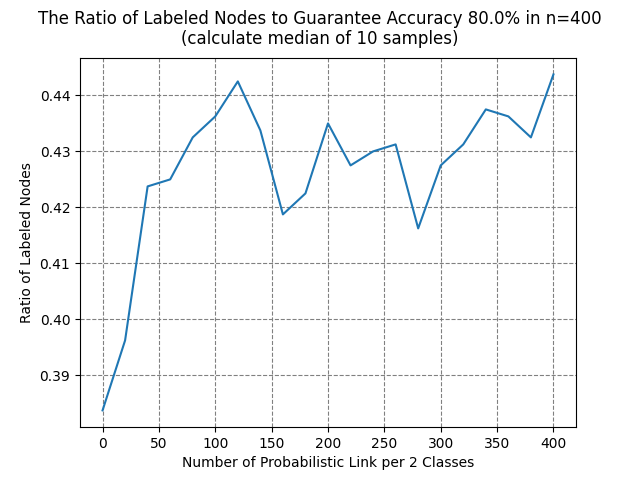
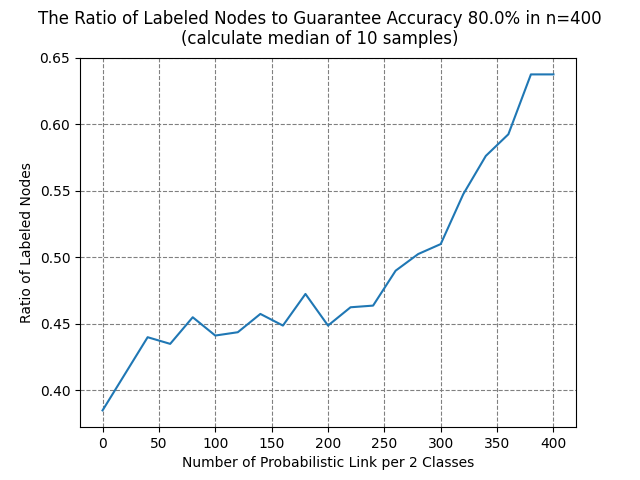
labeling optimization and link integration

diff --git a/scalefree_graph/task3_2_a.py b/scalefree_graph/task3_2_a.py
@@ -98,7 +98,7 @@ def main():
   fig.suptitle(f'The Ratio of Labeled Nodes to Guarantee Accuracy {threshold*100}% in n={n}\n(calculate mean of {roop} samples)')
   ax = fig.add_subplot(111)
   ax.plot(guarantee_ratio_list.keys(), [sum(v)/len(v) for v in guarantee_ratio_list.values()])
-  ax.set_xlabel('Number of Probabilistic Link per 2 Classes')
+  ax.set_xlabel('Number of Node used in Probabilistic Link per 2 Classes')
   ax.set_ylabel('Ratio of Labeled Nodes')
   ax.grid(axis='x', color='gray', linestyle='--')
   ax.grid(axis='y', color='gray', linestyle='--')
@@ -108,7 +108,7 @@ def main():
   fig1.suptitle(f'The Ratio of Labeled Nodes to Guarantee Accuracy {threshold*100}% in n={n}\n(calculate median of {roop} samples)')
   ax1 = fig1.add_subplot(111)
   ax1.plot(guarantee_ratio_list.keys(), np.median([v for v in guarantee_ratio_list.values()], axis=1))
-  ax1.set_xlabel('Number of Probabilistic Link per 2 Classes')
+  ax1.set_xlabel('Number of Node used in Probabilistic Link per 2 Classes')
   ax1.set_ylabel('Ratio of Labeled Nodes')
   ax1.grid(axis='x', color='gray', linestyle='--')
   ax1.grid(axis='y', color='gray', linestyle='--')
@@ -118,7 +118,7 @@ def main():
   fig2.suptitle(f'The Number of Labeled Nodes to Guarantee Accuracy {threshold*100}% in n={n}\n(calculate mean of {roop} samples)')
   ax2 = fig2.add_subplot(111)
   ax2.plot(guarantee_number_list.keys(), [sum(v)/len(v) for v in guarantee_number_list.values()])
-  ax2.set_xlabel('Number of Probabilistic Link per 2 Classes')
+  ax2.set_xlabel('Number of Node used in Probabilistic Link per 2 Classes')
   ax2.set_ylabel('Number of labeled nodes')
   ax2.grid(axis='x', color='gray', linestyle='--')
   ax2.grid(axis='y', color='gray', linestyle='--')
@@ -128,7 +128,7 @@ def main():
   fig3.suptitle(f'The Number of Labeled Nodes to Guarantee Accuracy {threshold*100}% in n={n}\n(calculate median of {roop} samples)')
   ax3 = fig3.add_subplot(111)
   ax3.plot(guarantee_number_list.keys(), np.median([v for v in guarantee_number_list.values()], axis=1))
-  ax3.set_xlabel('Number of Probabilistic Link per 2 Classes')
+  ax3.set_xlabel('Number of Node used in Probabilistic Link per 2 Classes')
   ax3.set_ylabel('Number of labeled nodes')
   ax3.grid(axis='x', color='gray', linestyle='--')
   ax3.grid(axis='y', color='gray', linestyle='--')

diff --git a/scalefree_graph/task2_a.py b/scalefree_graph/task2_a.py
@@ -31,11 +31,11 @@ class Net(torch.nn.Module):
     return x, y
 
 def main():
-  n = 2500
+  n = 400
   m = 2
   graph_num = 4
   link_level = n // 10
-  roop = 4
+  roop = 20
   acc_mean = {}
   for i in range(n):
     acc_mean[i] = []
@@ -57,7 +57,7 @@ def main():
 
       samples = []
       for i in range(cnt):
-        for j in c[i]:
+        for j in c[(i+link_level)%n]:
           samples.append(j)
 
       # for i in range(cnt):
@@ -84,6 +84,7 @@ def main():
     print(f'Duration: {end - start} sec')
     duration.append(end - start)
 
+    '''
     fig = plt.figure()
     fig.suptitle(f'Accuracy and Number of Labeled Nodes(n={n}) per Class\n({link_level/n*100}% nodes is used in links, claculated mean of {r} samples)')
     ax = fig.add_subplot(111)
@@ -93,7 +94,7 @@ def main():
     ax.grid(axis='x', color='gray', linestyle='--')
     ax.grid(axis='y', color='gray', linestyle='--')
     fig.savefig(f'./scalefree_graph/task2_figures/task2_mean_n{n}_10perLink_dg_r{r}.png')
-
+    '''
     print(f'roop {r+1}/{roop} done')
 
   fig = plt.figure()
@@ -104,7 +105,7 @@ def main():
   ax.set_ylabel('Accuracy')
   ax.grid(axis='x', color='gray', linestyle='--')
   ax.grid(axis='y', color='gray', linestyle='--')
-  fig.savefig(f'./scalefree_graph/task2_figures/task2_mean_n{n}_10perLink_dg.png')
+  fig.savefig(f'./scalefree_graph/task2_figures/task2_mean_n{n}_10perLink_dg_opt.png')
 
   print(f'Average Duration: {sum(duration)/len(duration)}')
 

diff --git a/scalefree_graph/task2_b.py b/scalefree_graph/task2_b.py
@@ -1,3 +1,4 @@
+import random
 import time
 from torch_geometric.nn import GCNConv
 from torch_geometric.utils.convert import from_networkx
@@ -35,14 +36,14 @@ def main():
   m = 2
   graph_num = 4
   link_level = n // 10
-  roop = 10
+  roop = 40
   acc_mean = {}
   for i in range(n):
     acc_mean[i] = []
   duration = []
   for r in range(roop):
     start = time.time()
-    a,_,c = sample.generate_sample_cc(n, m, graph_num, link_level)
+    a,_,c = sample.generate_sample(n, m, graph_num, link_level)
     dataA = from_networkx(a)
 
     device = torch.device('cuda' if torch.cuda.is_available() else 'cpu')
@@ -60,8 +61,14 @@ def main():
       #   for j in c[i]:
       #     samples.append(j)
 
+      # for i in range(cnt):
+      #   for j in c[n-1-i]:
+      #     samples.append(j)
+
+      tmp = [i for i in range(n)]
+      random.shuffle(tmp)
       for i in range(cnt):
-        for j in c[n-1-i]:
+        for j in c[tmp[i]]:
           samples.append(j)
 
       for _ in range(epoch_num):
@@ -92,7 +99,7 @@ def main():
   ax.set_ylabel('Accuracy')
   ax.grid(axis='x', color='gray', linestyle='--')
   ax.grid(axis='y', color='gray', linestyle='--')
-  fig.savefig(f'./scalefree_graph/task2_figures/task2_mean_n{n}_10perLink_cc_order_reverse.png')
+  fig.savefig(f'./scalefree_graph/task2_figures/task2_mean_n{n}_10perLink_dg_rand.png')
 
   print(f'Average Duration: {sum(duration)/len(duration)}')
 

diff --git a/scalefree_graph/sample.py b/scalefree_graph/sample.py
@@ -26,7 +26,7 @@ def generate_sample(n=100, m=2, graph_num=4, link_level=4):
   for i in range(n):
     for j in range(graph_num):
       deg_cent_dict[deg_order_list[i][j]] /= max_deg_cent_list[j]
-  print(deg_cent_dict)
+  # print(deg_cent_dict)
 
   # Labeling Order with Degree Centrality / Closeness Centrality / PageRank
   cent_order_list = []
@@ -273,4 +273,4 @@ def generate_sample_pr(n=100, m=2, graph_num=4, link_level=4):
   '''
   return H, I, cent_order_list
 
-# generate_sample(400, 2, 4, 40)
+# generate_sample(400, 2, 4, 400)
